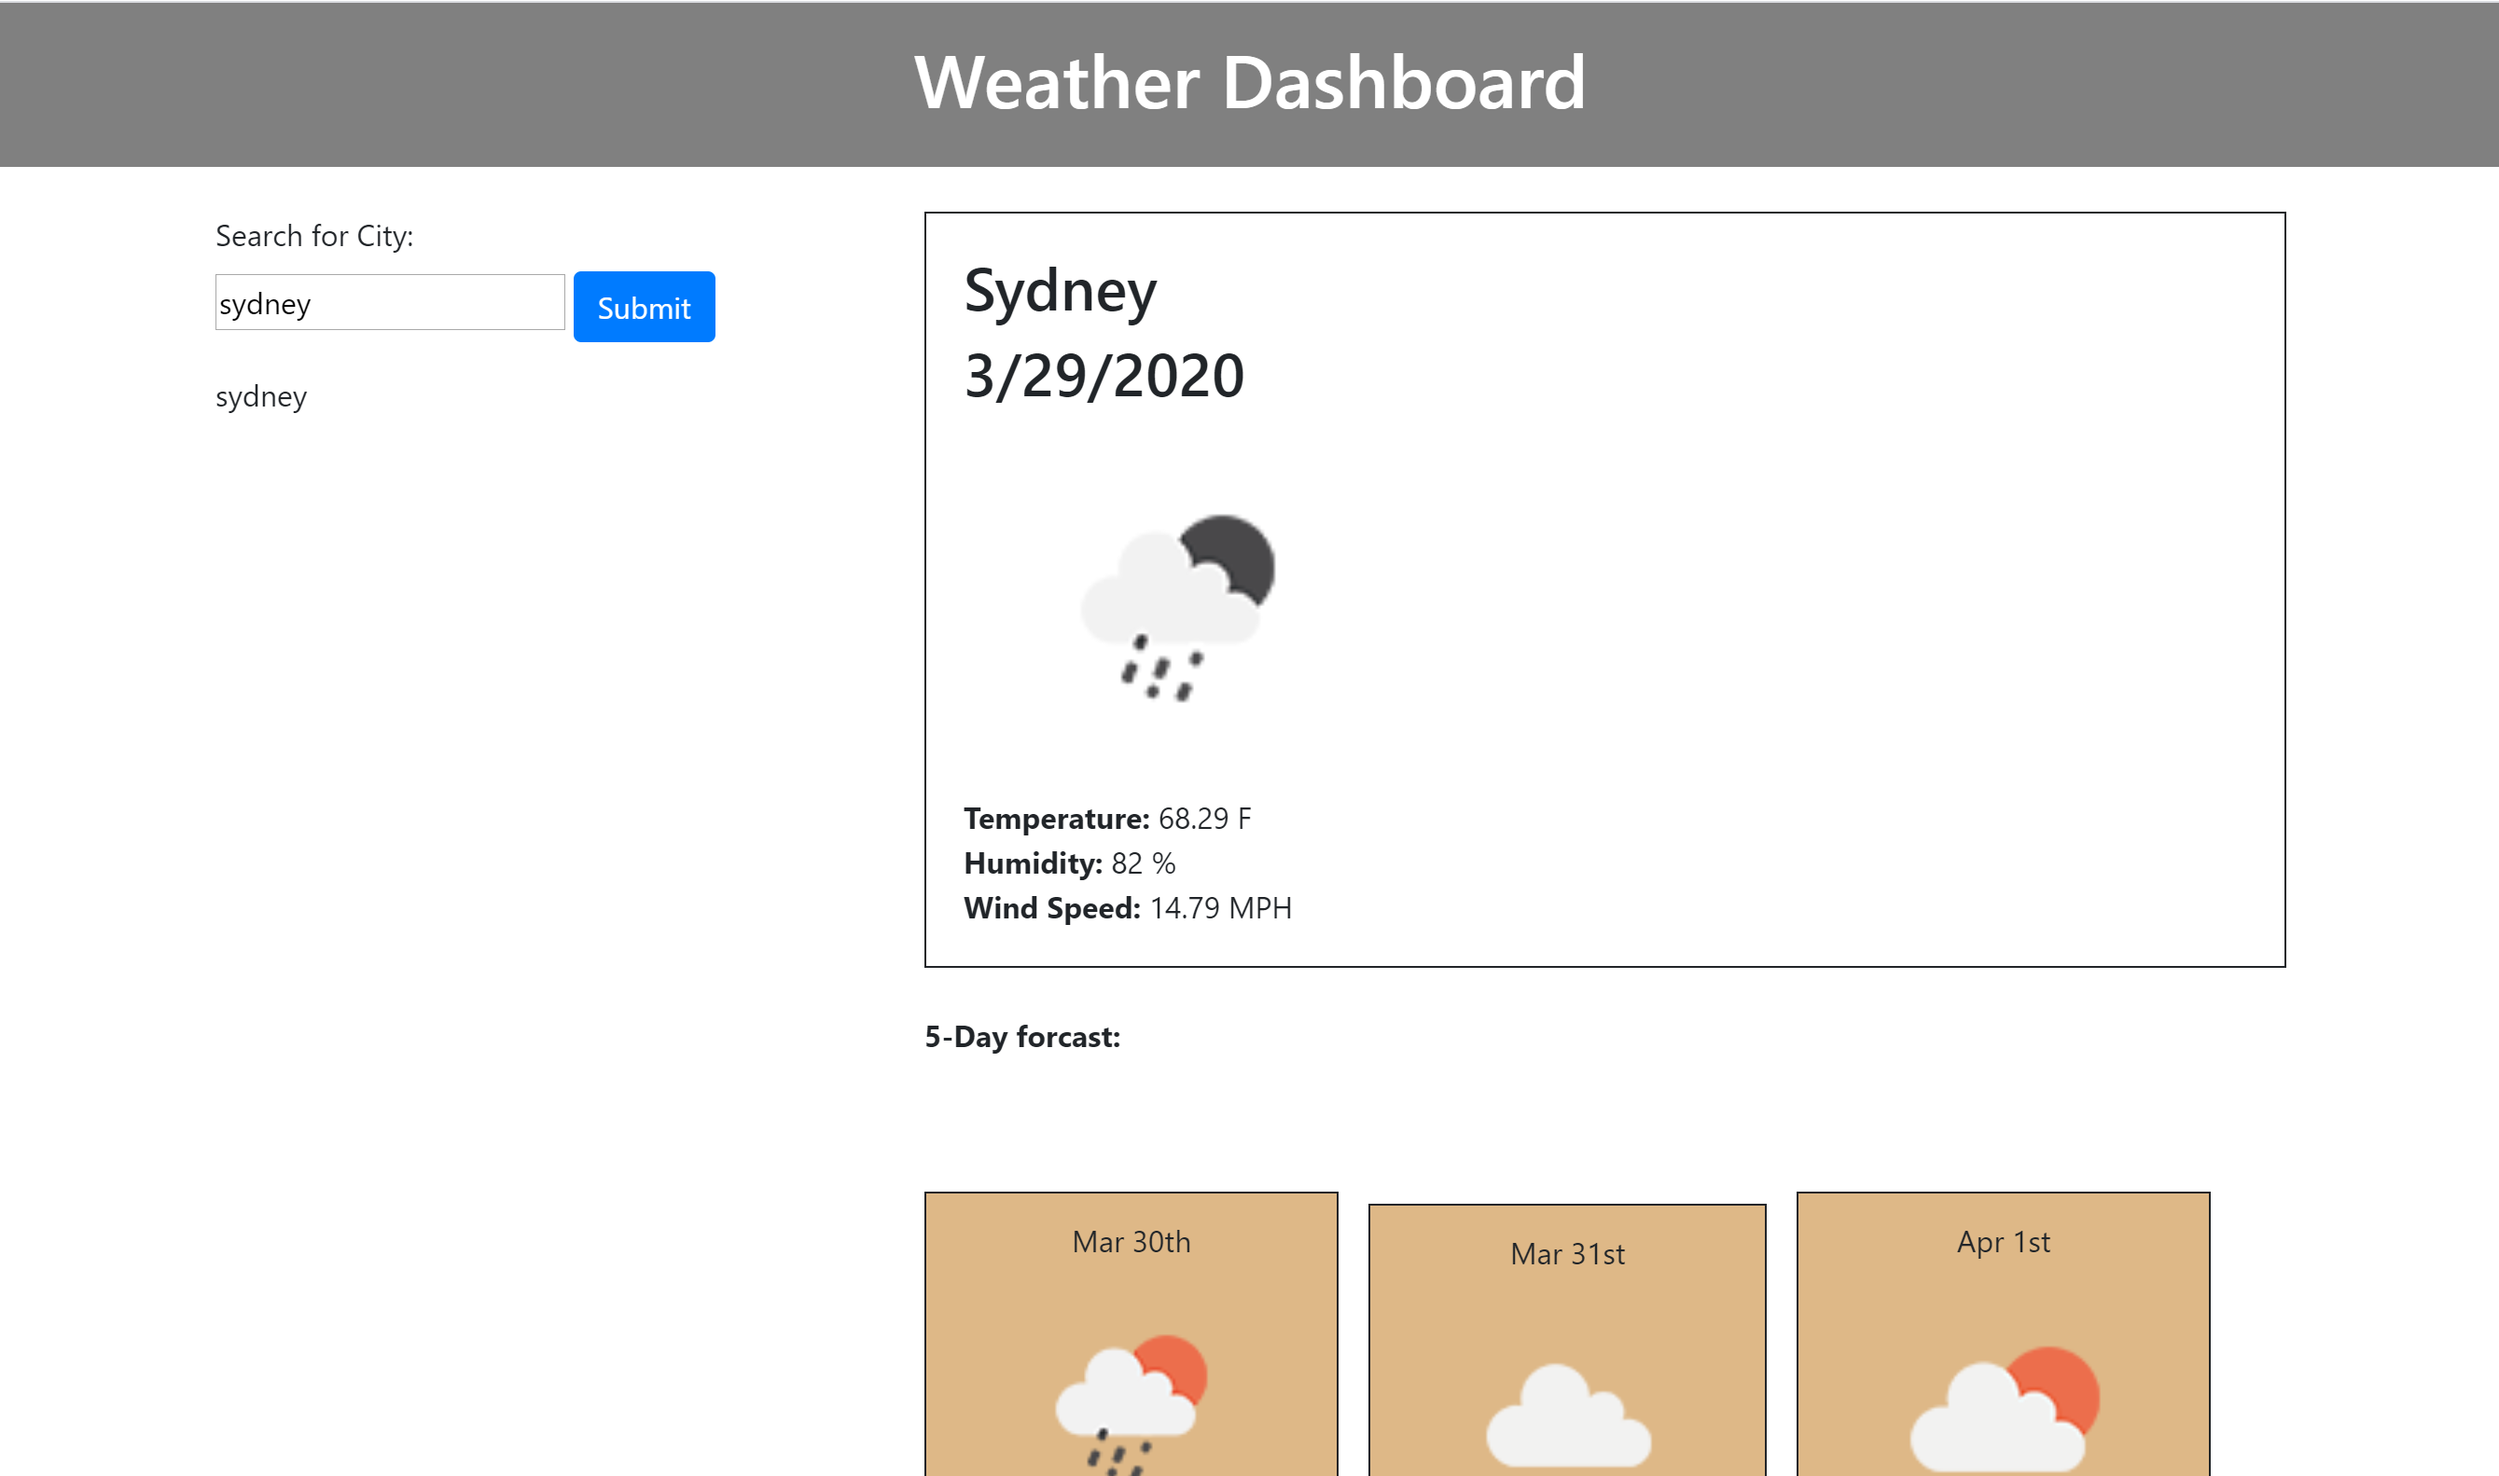
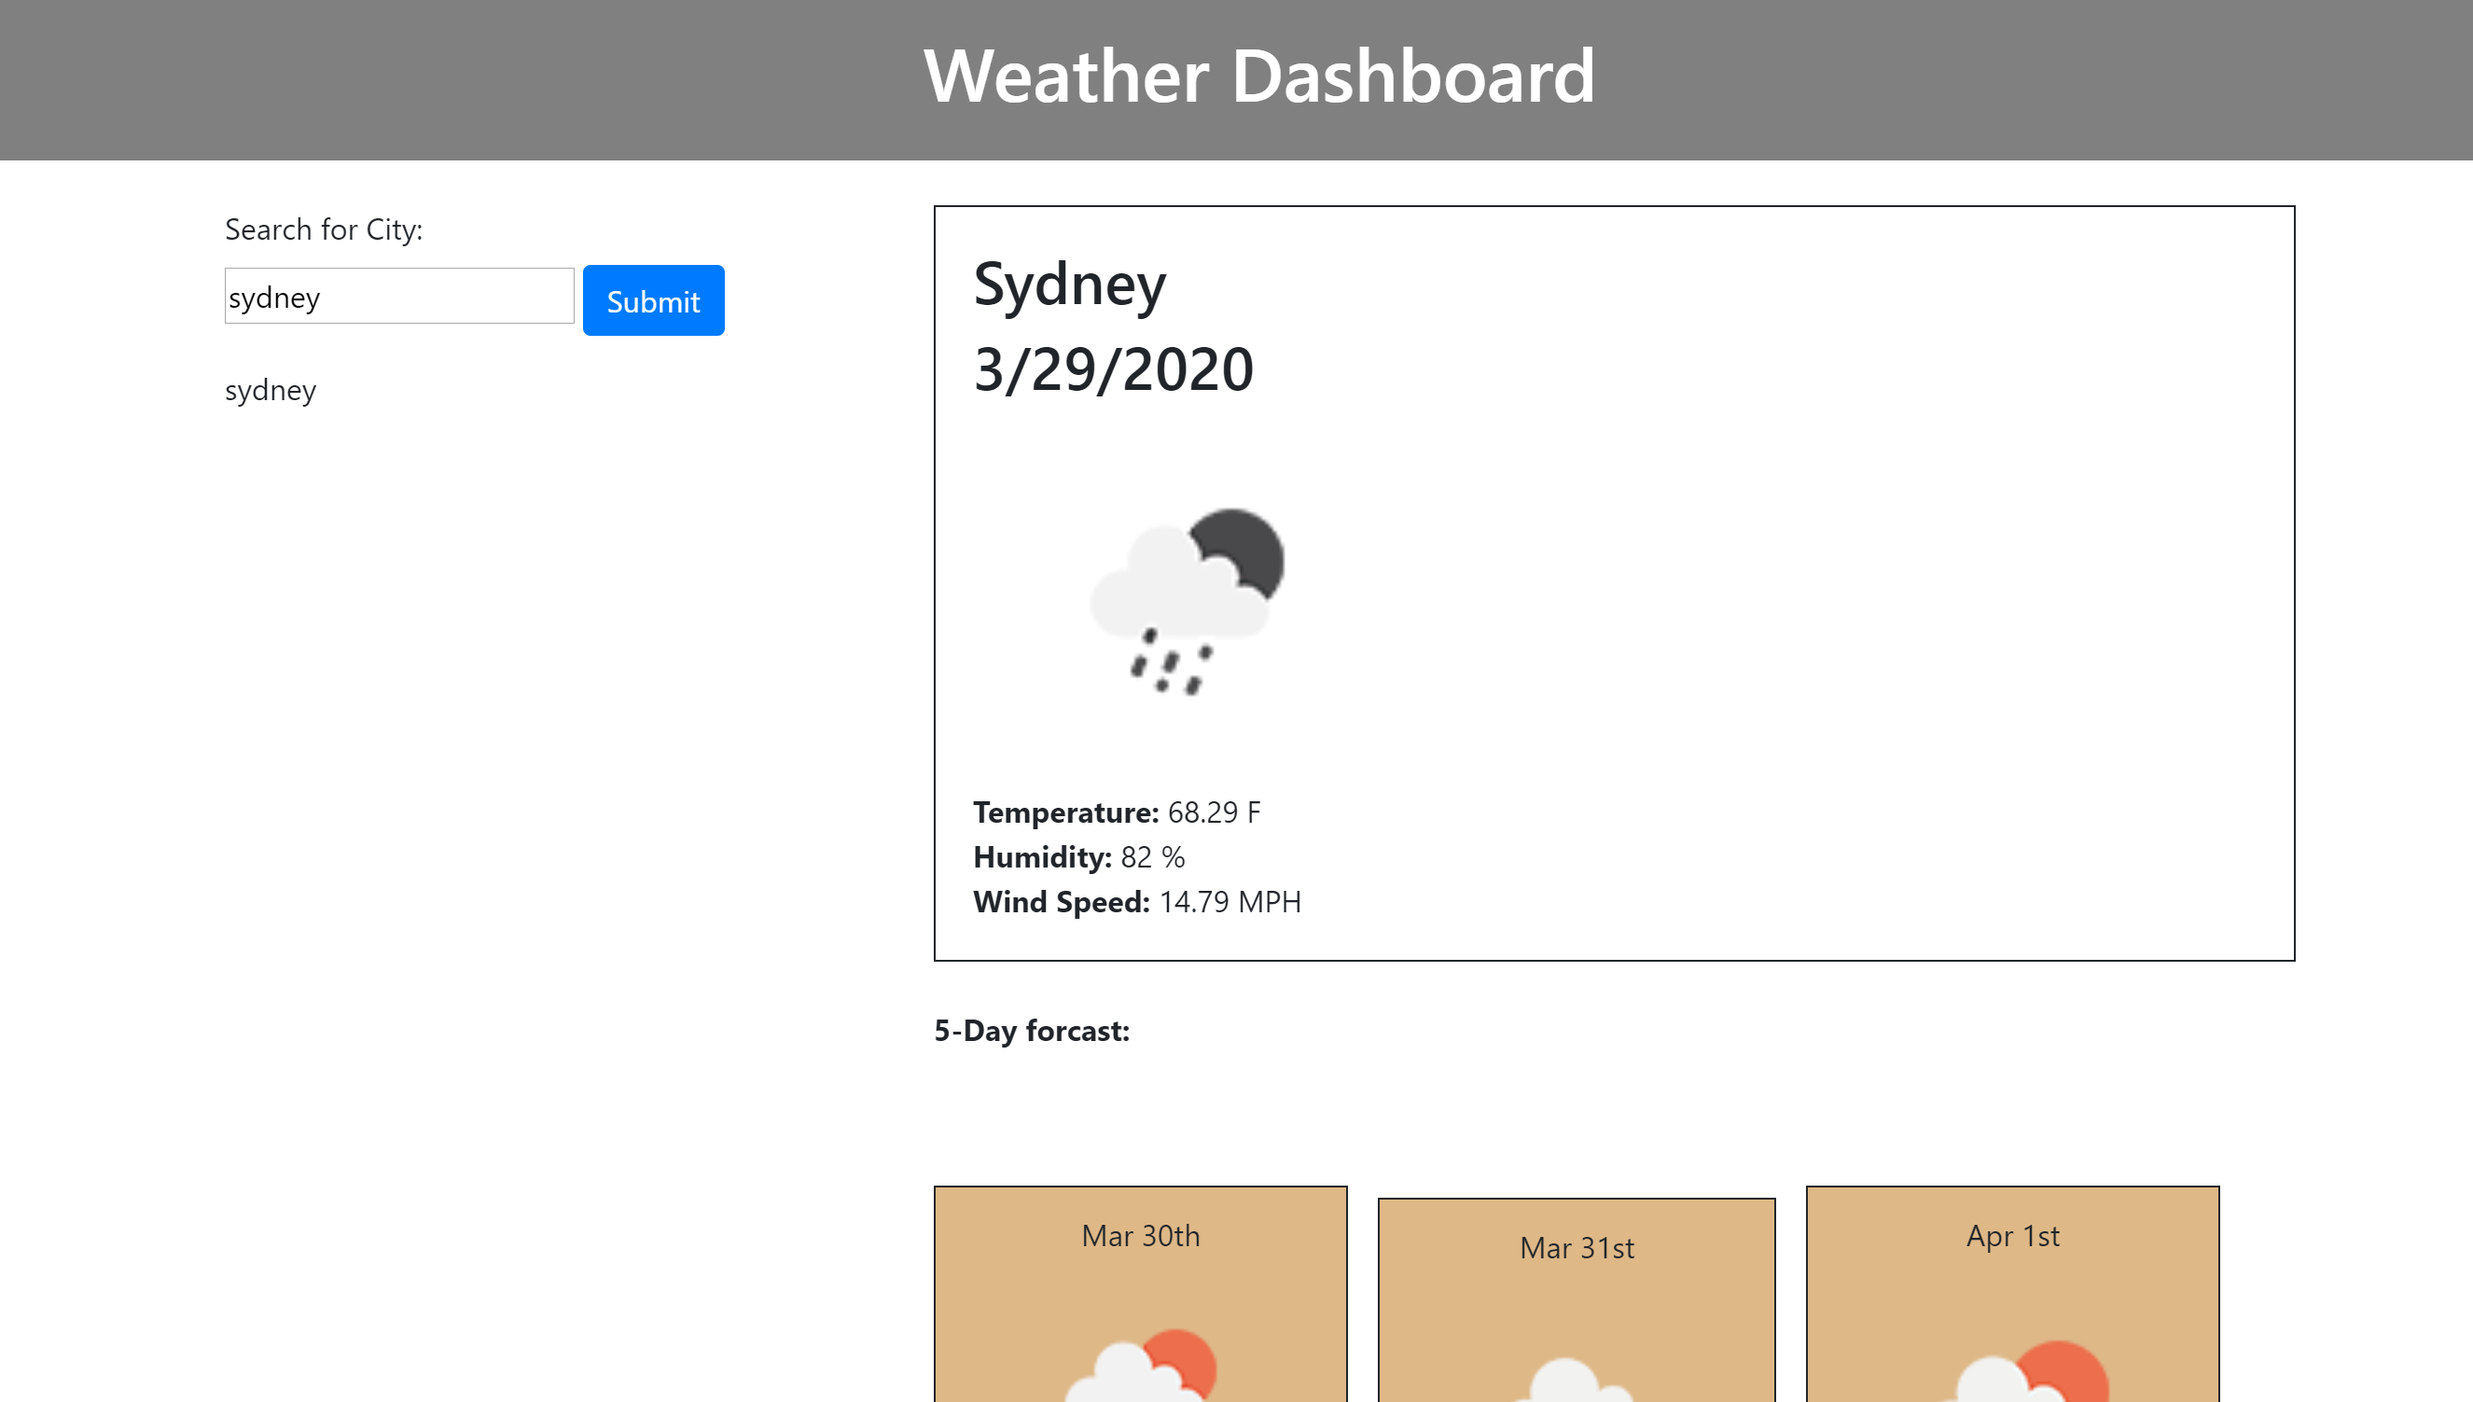
added files

diff --git a/README.md b/README.md
@@ -11,4 +11,4 @@ This is a simple web-app that allows you to search for a city and get the curren
 Deployed application link: https://prakritirajbhandari.github.io/Weather-Dashboard
 
 Screenshot:
-![](./images/image.png)
+![](./images/image1.png)
